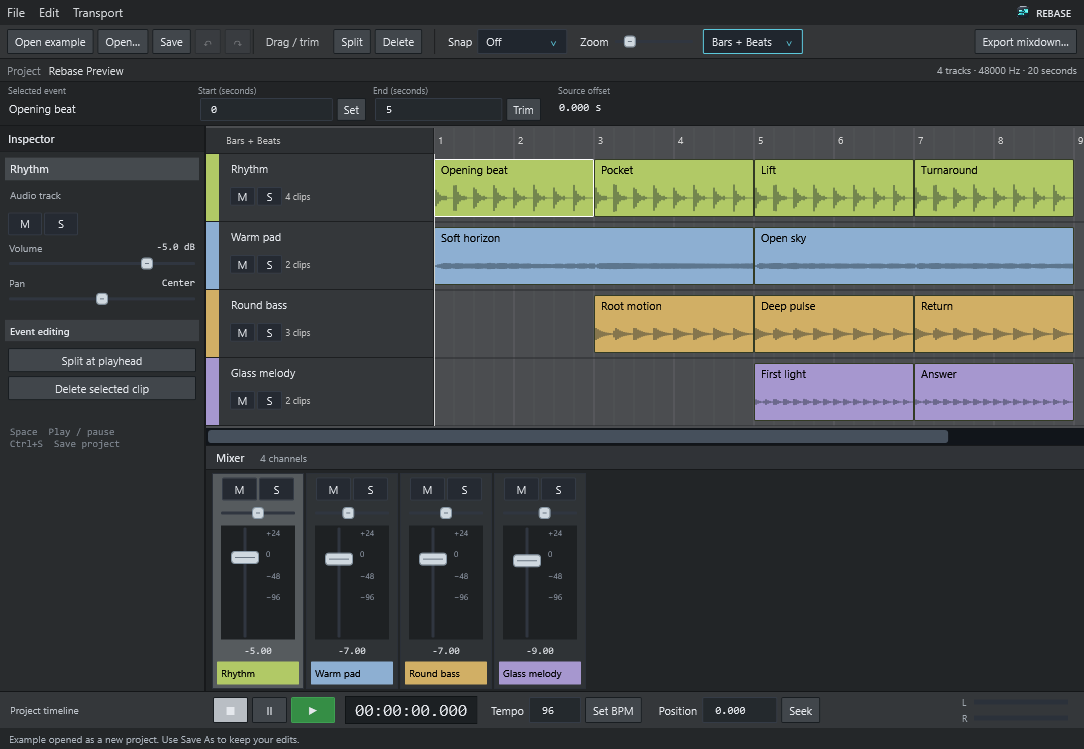
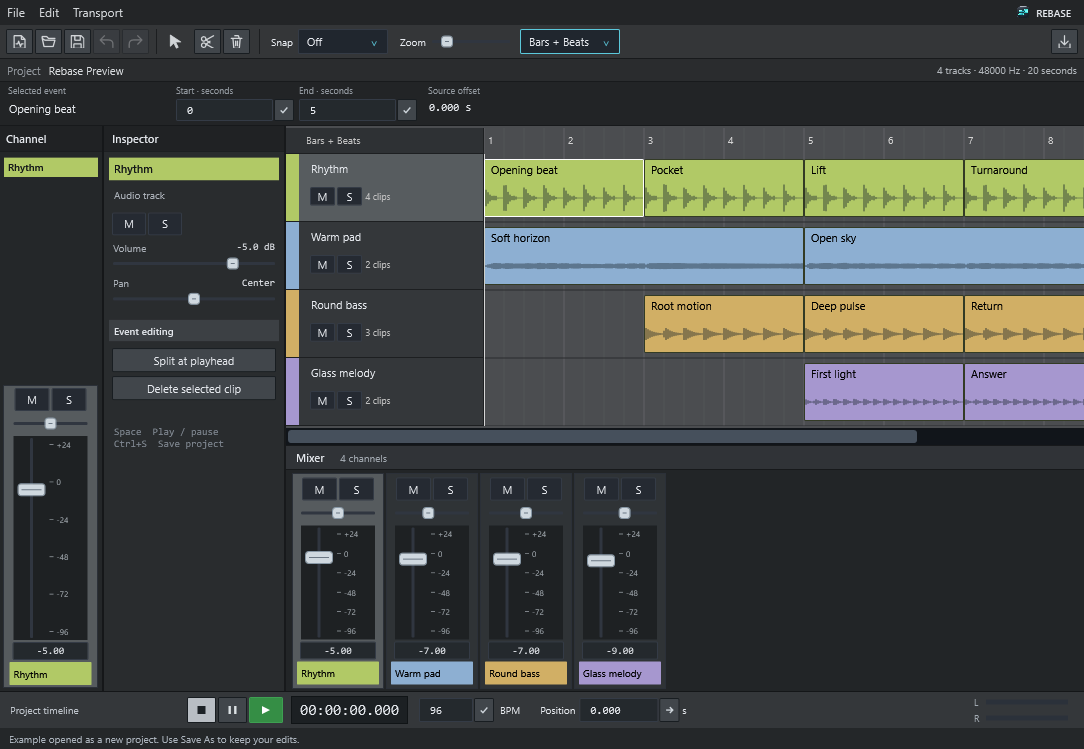
Publish Windows preview 2 links, captures and release evidence [skip ci]

diff --git a/research/publication/windows-portability/release-upload-controls-20261023/controls.py b/research/publication/windows-portability/release-upload-controls-20261023/controls.py
@@ -1,0 +1,84 @@
+import importlib.util,pathlib,tempfile,json,os,hashlib,zipfile,shutil,sys
+p=pathlib.Path(sys.argv[1] if len(sys.argv)>1 else '.github/scripts/upload-windows-preview.py')
+spec=importlib.util.spec_from_file_location('upload',p);m=importlib.util.module_from_spec(spec);spec.loader.exec_module(m)
+checks=0
+def check(value):
+ global checks
+ assert value;checks+=1
+def refused(fn):
+ global checks
+ try:fn()
+ except m.Refused:checks+=1
+ else:raise AssertionError('Expected refusal')
[1 lines of base64/hex data omitted]
+check(len(v)==6)
+for key,value in [('RUN_ID','1;echo token'),('RUN_ID','0'),('SOURCE_COMMIT','a'*39),('SOURCE_COMMIT','a'*41),('EXPECTED_SHA256','g'*64),('RELEASE_TAG','--clobber'),('RELEASE_TAG','../tag'),('RELEASE_TAG','v1\n'),('ASSET_NAME','../name.zip'),('ASSET_NAME','payload.zip#label'),('ASSET_NAME','payload.exe'),('ASSET_NAME','a.zip\n'),('GITHUB_REPOSITORY','owner/repo/other')]:
+ refused(lambda key=key,value=value:m.inputs(dict(v,**{key:value})))
+run={'id':39949650116,'status':'completed','conclusion':'success','head_sha':v['SOURCE_COMMIT'],'path':'.github/workflows/windows-application.yml'}
+m.verify_run(run,v);checks+=1
+for key,value in [('id',1),('status','in_progress'),('conclusion','failure'),('head_sha','f'*40),('path','.github/workflows/unreviewed.yml')]:refused(lambda key=key,value=value:m.verify_run(dict(run,**{key:value}),v))
+release={'id':421801975,'tag_name':v['RELEASE_TAG'],'draft':True,'prerelease':True,'target_commitish':v['SOURCE_COMMIT']}
+m.verify_release(release,v);checks+=1
+for key,value in [('id',True),('draft',False),('prerelease',False),('tag_name','different'),('target_commitish','main')]:refused(lambda key=key,value=value:m.verify_release(dict(release,**{key:value}),v))
+asset={'id':1,'name':v['ASSET_NAME'],'state':'uploaded','size':123,'digest':'sha256:'+v['EXPECTED_SHA256']}
+check(m.matching_asset([],v,123) is None);check(m.matching_asset([asset],v,123)==asset)
+for key,value in [('id',True),('state','starter'),('size',122),('digest','sha256:'+'0'*64),('digest',None)]:refused(lambda key=key,value=value:m.matching_asset([dict(asset,**{key:value})],v,123))
+refused(lambda:m.matching_asset([asset,asset],v,123))
+with tempfile.TemporaryDirectory() as temp:
+ root=pathlib.Path(temp);fixture=root/'fixture';fixture.mkdir();pkg=fixture/'package';pkg.mkdir();evidence=fixture/'evidence';evidence.mkdir()
+ archive=pkg/'Rebase-Windows-x64-development-8c6ec4b8a41f.zip'
+ with zipfile.ZipFile(archive,'w') as z:z.writestr('authored-control.txt','No executable content')
+ v=dict(v,EXPECTED_SHA256=hashlib.sha256(archive.read_bytes()).hexdigest());size=archive.stat().st_size
+ build={'status':'passed','commit':v['SOURCE_COMMIT'],'window_smoke_tested':True,'dependency_closure_checked':True,'app_local_modules_observed':True,'package':{'name':archive.name,'bytes':size,'sha256':v['EXPECTED_SHA256']}}
+ def save(b): (evidence/'application-build.json').write_text(json.dumps(b))
+ save(build);check(m.verify_package(evidence,pkg,v)==(archive,size))
+ for key,value in [('status','failed'),('commit','0'*40),('window_smoke_tested',False),('dependency_closure_checked',False),('app_local_modules_observed',False)]:
+  save(dict(build,**{key:value}));refused(lambda:m.verify_package(evidence,pkg,v))
+ save(build)
+ for key,value in [('name','other.zip'),('bytes',size-1),('sha256','0'*64)]:
+  save(dict(build,package=dict(build['package'],**{key:value})));refused(lambda:m.verify_package(evidence,pkg,v))
+ save(build);refused(lambda:m.verify_package(evidence,pkg,dict(v,EXPECTED_SHA256='0'*64)))
+ extra=pkg/'other.zip';extra.write_bytes(archive.read_bytes());refused(lambda:m.verify_package(evidence,pkg,v));extra.unlink()
+ original=archive.read_bytes();archive.write_bytes(bytes([original[0]^1])+original[1:]);refused(lambda:m.verify_package(evidence,pkg,v));archive.write_bytes(original)
+ link=pkg/'linked';link.symlink_to(archive.name);refused(lambda:m.verify_package(evidence,pkg,v));link.unlink()
+ real_api,real_gh=m.api,m.gh;os.environ['RUNNER_TEMP']=temp
+ state={'assets':[],'calls':[]}
+ good_asset=dict(asset,size=size,digest='sha256:'+v['EXPECTED_SHA256'])
+ def fake_api(path,*,pages=False):
+  if '/actions/runs/' in path:return run
+  if '/git/matching-refs/' in path:return []
+  if path.endswith('/releases?per_page=100'):return [release]
+  if path.endswith('/assets?per_page=100'):return state['assets']
+  return release
+ def fake_gh(args,**kwargs):
+  state['calls'].append(args)
+  if args[:2]==['run','download']:
+   name=args[args.index('--name')+1];dest=pathlib.Path(args[args.index('--dir')+1]);shutil.copytree(evidence if name=='windows-application-evidence' else pkg,dest)
+  elif args[:2]==['release','upload']:
+   check('--clobber' not in args);check(pathlib.Path(args[3]).read_bytes()==original);state['assets']=[good_asset]
+   return None # Simulate client timeout after server accepted all bytes.
+  else:raise AssertionError('Unexpected mutation')
+  return b''
+ m.api,m.gh=fake_api,fake_gh
+ receipt=m.upload(v);check(receipt['outcome']=='uploaded' and receipt['release_remains_draft'] and not receipt['published']);check(sum(c[:2]==['release','upload'] for c in state['calls'])==1)
+ state['calls']=[];receipt=m.upload(v);check(receipt['outcome']=='already-uploaded');check(not any(c[:2]==['release','upload'] for c in state['calls']))
+ state['calls']=[];state['assets']=[dict(good_asset,state='starter')];refused(lambda:m.upload(v));check(not any(c[:2]==['release','upload'] for c in state['calls']))
+ m.api,m.gh=real_api,real_gh
+original_api=m.api
+ref='refs/tags/'+v['RELEASE_TAG'];prefix='repos/'+v['GITHUB_REPOSITORY'];tagsha='a'*40
+for refs in [[],[{'ref':ref+'-other','object':{'type':'commit','sha':'0'*40}}],[{'ref':ref,'object':{'type':'commit','sha':v['SOURCE_COMMIT']}}]]:
+ m.api=lambda path, refs=refs:refs
+ m.verify_tag(prefix,v);checks+=1
+annotation={'sha':tagsha,'object':{'type':'commit','sha':v['SOURCE_COMMIT']}}
+m.api=lambda path:([{'ref':ref,'object':{'type':'tag','sha':tagsha}}] if '/matching-refs/' in path else annotation)
+m.verify_tag(prefix,v);checks+=1
+for refs in [[{'ref':ref,'object':{'type':'commit','sha':'0'*40}}],[{'ref':ref,'object':{'type':'tree','sha':tagsha}}],{'message':'not found'},[{'ref':ref,'object':{'type':'commit','sha':'invalid'}}]]:
+ m.api=lambda path, refs=refs:refs
+ refused(lambda:m.verify_tag(prefix,v))
+for obj in [{'type':'commit','sha':'0'*40},{'type':'tag','sha':tagsha}]:
+ m.api=lambda path,obj=obj:([{'ref':ref,'object':{'type':'tag','sha':tagsha}}] if '/matching-refs/' in path else {'sha':tagsha,'object':obj})
+ refused(lambda:m.verify_tag(prefix,v))
+def failing_api(path):raise m.Refused('github-command-failed')
+m.api=failing_api;refused(lambda:m.verify_tag(prefix,v))
+m.api=original_api
+print(json.dumps({'status':'passed','checks':checks,'network_calls':0,'remote_mutations':0,'control_scope':'Input validation, run/draft refusal, package custody, no-clobber, server-confirmed timeout/idempotence and resolved tag validation','source_sha256':hashlib.sha256(p.read_bytes()).hexdigest(),'control_script_sha256':hashlib.sha256(pathlib.Path(__file__).read_bytes()).hexdigest(),'python_version':sys.version.split()[0]}))

diff --git a/README.md b/README.md
@@ -14,9 +14,9 @@ Windows development follows the [Windows reference interface](docs/development/w
 
 ## Release
 
-**[Download Rebase for Windows](https://github.com/thatsmethen/rebase/releases/download/v0.21.1-windows-preview.1/Rebase-0.21.1-windows-x64.zip)**
+**[Download Rebase for Windows](https://github.com/thatsmethen/rebase/releases/download/v0.21.1-windows-preview.2/Rebase-0.21.1-windows-preview.2-x64.zip)**
 
-The **Windows x64 development preview** includes its runtimes and the example beat. Extract the entire archive, open `Rebase.exe`, and choose **File → Open example**. See the [release page](https://github.com/thatsmethen/rebase/releases/tag/v0.21.1-windows-preview.1) and [Windows installation guide](docs/install/windows.md). This unsigned preview targets Windows 11; native automated checks ran on Windows Server 2025. Audio-device output and physical input still need interactive verification.
+The **Windows x64 development preview** includes its runtimes and the example beat. Extract the entire archive, open `Rebase.exe`, and choose **File → Open example**. See the [release page](https://github.com/thatsmethen/rebase/releases/tag/v0.21.1-windows-preview.2) and [Windows installation guide](docs/install/windows.md). This unsigned preview targets Windows 11; native automated checks ran on Windows Server 2025. Audio-device output and physical input still need interactive verification.
 
 **[Download Rebase for Mac](https://github.com/thatsmethen/rebase/releases/download/v0.21.1/Rebase-0.21.1-macos-arm64.zip)**
 
@@ -26,7 +26,7 @@ The Mac app includes the [example beat](Application/Examples/README.md) shown be
 
 ## Screenshots
 
-The Windows preview, showing the included four-track beat, real waveforms, inspector, musical ruler and mixer. This is the actual opened application's client-area render from the native Windows validation run.
+The Windows preview, showing the included four-track beat, real waveforms, separate Channel and Inspector, compact controls, musical ruler and mixer. This is the actual opened application's client-area render from the native Windows validation run.
 
 ![Rebase Windows arrangement, inspector and mixer](docs/screenshots/windows-arrangement.png)
 

diff --git a/Application/Windows/RebaseWindows/README.md b/Application/Windows/RebaseWindows/README.md
@@ -46,4 +46,4 @@ DWM dark-caption opt-in follows [Microsoft's documented API](https://learn.micro
 
 For the optional authored source-event smoke, append `--smoke-source-project ABSOLUTE_PACKAGE --smoke-source-media ABSOLUTE_WAV`. Both paths are required together and stay outside the shipped app. The scenario opens a scratch copy, selects the source-event UI item, attaches media through the actual button handler with a supplied path, checks undo/redo, and exports through the actual button handler. File dialogs remain untested. It records provenance/output hashes and `native-source-visual.png`, then returns to the bundled beat, waits for all real waveform geometry, checks that all four rows fit, and captures `native-app-visual.png`. The extended scenario allows 180 seconds; the outer process timeout is 240 seconds. It never starts audio.
 
-Journey queue: the initial redesigned shell and bounded source attach/export ran in hosted Windows at `34f15d5`. Its capture revealed a source selector display defect, now corrected in source. The follow-up inspector, fixed-header scrolling, musical ruler, interaction contrast, and client capture changes have local cross-build and portable-control evidence; their expanded native smoke is pending. Native pointer drag, physical keyboard interaction, file dialogs, and hardware audition need further desktop/device verification. Future parity work remains separate from this UI milestone.
+The published [Windows preview 2](https://github.com/thatsmethen/rebase/releases/tag/v0.21.1-windows-preview.2), built from `8c6ec4b`, passed 55 actual-window checks, 91 host controls and 52 helper checks. Its three reviewed native captures show the corrected source selector, separate Channel/Inspector, compact toolbar, shared musical ruler, fixed track headers and bottom-aligned Channel nameplate. The shared portable importer subsequently passed six authored controls per Windows configuration at `53141c1`; its review/import interface remains to be integrated. Native pointer drag, physical keyboard interaction, file dialogs, and hardware audition need further desktop/device verification. Full feature and reference fidelity remain ongoing work.

diff --git a/research/publication/windows-portability/release-upload-controls-20261023/README.md b/research/publication/windows-portability/release-upload-controls-20261023/README.md
@@ -1,0 +1,15 @@
+# Verified draft upload
+
+The native application was already built and independently audited at `8c6ec4b`. A local upload stopped with HTTP 408 after 8,257,536 bytes. GitHub subsequently exposed an incomplete `starter` asset; [the retained metadata](failed-local-upload.json) identifies that exact draft asset and its removal. Completed release assets were retained.
+
+The first [runner attempt](https://github.com/thatsmethen/rebase/actions/runs/39954574761) refused the incomplete asset without replacing it. Its [raw receipt](run-39954574761.json) remains failed. After the incomplete asset was removed, the [second attempt](https://github.com/thatsmethen/rebase/actions/runs/39955191121) uploaded the audited ZIP and confirmed its server digest. Its [raw receipt](run-39955191121.json) describes a draft at that time; the separate [publication record](../release-v0.21.1-windows-preview.2.json) verifies the later public release.
+
+The helper validates successful workflow identity, source commit, recorded build gates, downloaded ZIP size/hash, exact draft target and resolved existing tag. It refuses incomplete/different assets and confirms an uncertain upload through server metadata. It does not execute the packaged app or publish a release.
+
+The byte-exact [control script](controls.py) exercises 66 no-network cases, including malformed input, mismatched builds/releases/tags, altered ZIPs, no replacement, idempotence and a client timeout after successful server upload. [The original receipt](controls.json) binds both source hashes and the Python version. Run from the repository root:
+
+```sh
+python3 research/publication/windows-portability/release-upload-controls-20261023/controls.py
+```
+
+These controls validate the upload helper's decisions. The actual successful GitHub runner and subsequent public verification are separate observations. The earlier `target_commitish`-only helper was strengthened to resolve existing lightweight or annotated tags; the actual new preview tag was independently verified absent before publication.

diff --git a/research/publication/windows-portability/README.md b/research/publication/windows-portability/README.md
@@ -36,4 +36,6 @@ These records concern the authored Rebase implementation running on Windows. The
 
 New runs receive separate records. A later passing run does not rewrite a failed observation or turn a component check into full application parity. The current feature acceptance plan is the [Windows parity ledger](../../../docs/development/windows-parity.md).
 
+[Windows preview 2 publication](release-v0.21.1-windows-preview.2.json) records the exact released `8c6ec4b` build, five asset digests and unauthenticated accessibility checks. The [release upload controls](release-upload-controls-20261023/README.md) preserve the local transfer timeout, the runner's refusal of the incomplete asset, the successful subsequent upload and 66 no-network validation controls. The newer `53141c1` importer is tested source work and is not retroactively included in that release ZIP.
+
 The [local portable CPR import controls](cpr-import-local-20261023/observation.json) retain two raw test reports and exact source hashes. Seven authored cases passed in the macOS portable target; the normal macOS core focused run executed 19 cases with seven explicit private-fixture skips and zero failures. This verifies the shared filesystem adaptation locally; it does not yet establish Windows execution or a Windows review/import interface.

diff --git a/docs/development/windows-parity.md b/docs/development/windows-parity.md
@@ -1,6 +1,6 @@
 # Windows parity
 
-The behavior comparison baseline is the macOS **0.21.1** application, including its bundled example beat. The visual target is the [Cubase Pro 15.0.30 Windows interface](windows-ui-fidelity.md). The [Windows development preview](https://github.com/thatsmethen/rebase/releases/tag/v0.21.1-windows-preview.1) includes the native WPF package, shared waveforms, musical ruler and bounded source-event journey. The captured selector/header defects have been corrected; exact reference fidelity remains open. The public repository, research export, and existing Mac downloads remain available.
+The behavior comparison baseline is the macOS **0.21.1** application, including its bundled example beat. The visual target is the [Cubase Pro 15.0.30 Windows interface](windows-ui-fidelity.md). The [Windows development preview](https://github.com/thatsmethen/rebase/releases/tag/v0.21.1-windows-preview.2) includes the native WPF package, shared waveforms, musical ruler and bounded source-event journey. The captured selector/header defects have been corrected; exact reference fidelity remains open. The public repository, research export, and existing Mac downloads remain available.
 
 ## Shared implementation
 

diff --git a/docs/install/windows.md b/docs/install/windows.md
@@ -4,7 +4,7 @@ This experimental x64 preview is intended for Windows 11. It includes its requir
 
 ## Open the app
 
-1. Download `Rebase-0.21.1-windows-x64.zip` from the [Windows preview release](https://github.com/thatsmethen/rebase/releases/tag/v0.21.1-windows-preview.1).
+1. Download `Rebase-0.21.1-windows-preview.2-x64.zip` from the [Windows preview release](https://github.com/thatsmethen/rebase/releases/tag/v0.21.1-windows-preview.2).
 2. Use **Extract All** to unpack the complete archive.
 3. Open **Rebase.exe** inside the extracted `Rebase` folder. Keep the DLLs, notices and `Examples` folder beside the executable.
 4. Choose **File → Open example**. The four-track beat opens as a separate editable copy.
